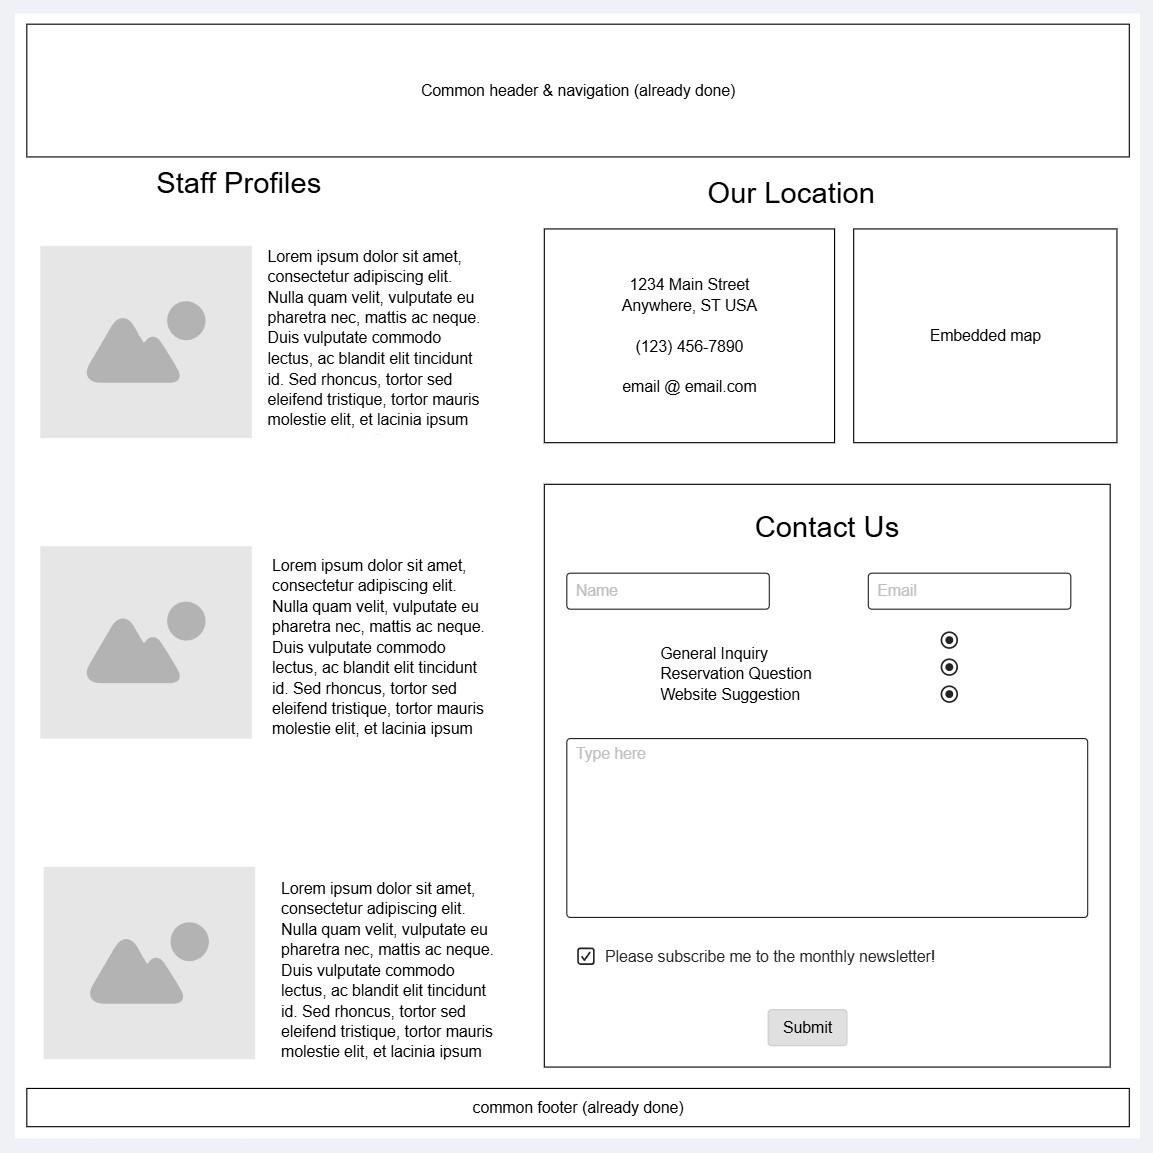
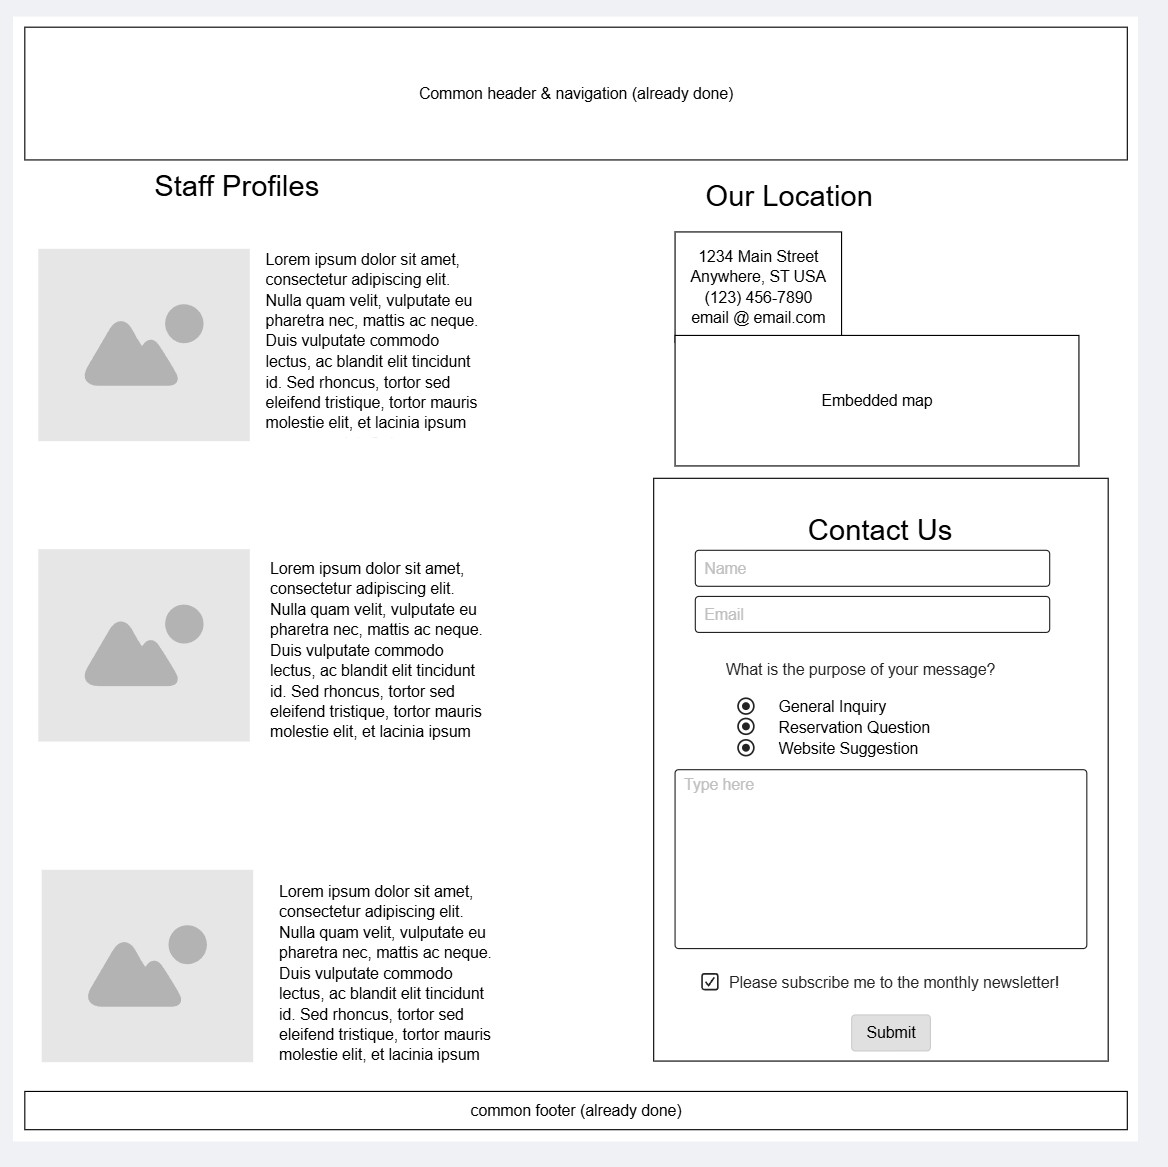
week 5 contact us page updates

diff --git a/wwr/contact.html b/wwr/contact.html
@@ -27,55 +27,67 @@
             </ul>
         </nav>
     </header>
-    <main >
-        <div  class="aboutpage">
+    <main class="aboutpage">
+        <!-- <div  class="aboutpage"> -->
         <section class="staffbios">
             <h2>Our Staff</h2>
             <figure><img src="images/employee1.jpg" alt="Julia Smith">
-                <figcaption>Kandi Smith is our very capable office manager. She lives in Idaho Falls with her family and loves to snowboard in the winter and hike in the summer.</figcaption>
+                <figcaption>Kandi Smith is our very capable office manager. She lives in Idaho Falls with her family and
+                    loves to snowboard in the winter and hike in the summer.</figcaption>
             </figure>
             <figure><img src="images/employee2.jpg" alt="Julia Smith">
-                <figcaption>John Clark is our head of reservations. He loves to play board games and write novels in his spare time. He lives in Blackfoot with his wife. </figcaption>
+                <figcaption>John Clark is our head of reservations. He loves to play board games and write novels in his
+                    spare time. He lives in Blackfoot with his wife. </figcaption>
             </figure>
             <figure><img src="images/employee3.jpg" alt="Julia Smith">
-                <figcaption>Harriet Johnson is our head tour guide. When she's not on the river, Harriet loves to knit and bake. She lives in Ammon with her dog Milo.</figcaption>
+                <figcaption>Harriet Johnson is our head tour guide. When she's not on the river, Harriet loves to knit
+                    and bake. She lives in Ammon with her dog Milo.</figcaption>
             </figure>
+
         </section>
         <section class="location">
             <h2>Our Location</h2>
-            <address>1234 Main Street<br>Idaho Falls, 83401 ID <br>(208)123-4567<br>email@email.com</address>
-            <iframe src="https://www.google.com/maps/embed?pb=!1m18!1m12!1m3!1d92618.68897390427!2d-112.11872343858929!3d43.495366841365296!2m3!1f0!2f0!3f0!3m2!1i1024!2i768!4f13.1!3m3!1m2!1s0x5354594e739512b5%3A0x2311c9fc094c49c9!2sIdaho%20Falls%2C%20ID!5e0!3m2!1sen!2sus!4v1749058357774!5m2!1sen!2sus" width="400" height="400"  allowfullscreen="" loading="lazy" referrerpolicy="no-referrer-when-downgrade">
+            <address>1234 Main Street<br>Idaho Falls, ID 83401<br>(208)123-4567<br>email@email.com</address>
+            <iframe
+                src="https://www.google.com/maps/embed?pb=!1m18!1m12!1m3!1d92618.68897390427!2d-112.11872343858929!3d43.495366841365296!2m3!1f0!2f0!3f0!3m2!1i1024!2i768!4f13.1!3m3!1m2!1s0x5354594e739512b5%3A0x2311c9fc094c49c9!2sIdaho%20Falls%2C%20ID!5e0!3m2!1sen!2sus!4v1749058357774!5m2!1sen!2sus"
+                width="400" height="400" allowfullscreen="" loading="lazy" referrerpolicy="no-referrer-when-downgrade">
             </iframe>
         </section>
         <section class="contactform">
             <form>
                 <fieldset>
-                    <legend>Contact Us</legend>
+                    <legend class="contactus">Contact Us</legend>
+                    <!-- <div class="contactus"> -->
                     <label for="fullname">Full Name</label>
                     <input type="text" id="fullname" name="fullname"><br>
-                    <label for="email">Email Address</label>
+                    <!-- </div> -->
+                    <label for="useremail">Email Address</label>
                     <input type="email" id="useremail" name="useremail"><br>
                 </fieldset>
                 <fieldset>
-                    <legend>What is the purpose of your message?</legend>
-                    <label for="generalinquiry">General Inquiry</label>
-                    <input type="radio" id="generalinquiry" name="generalinquiry"><br>
-                    <label for="reservationquestion">Reservation Question</label>
-                    <input type="radio" id="reservationquestion" name="reservationquestion"><br>
-                    <label for="website suggestion">Website Suggestion</label>
-                    <input type="radio" id="websitesuggestion" name="websitesuggestion"><br>
-                    <textarea name="message" id="message" rows="4"
-                    placeholder="Please type your message here"></textarea><br>
-                    <label for="newsletter">Please subscribe me to the monthly newsletter!</label>
-                    <input type="checkbox" id="newsletter" name="newsletter"><br>
+                    <legend class="msgpurpose">What is the purpose of your message?</legend>
+                    <div class="radio">
+                        <input type="radio" id="purpose" name="purpose">
+                        <label>General Inquiry</label><br>
+                        <input type="radio" id="resquestion" name="purpose">
+                        <label for="resquestion">Reservation Question</label><br>
+                        <input type="radio" id="sitesuggestion" name="purpose">
+                        <label for="sitesuggestion">Website Suggestion</label><br>
+                    </div>
+                    <textarea name="message" id="message" rows="15"
+                        placeholder="Please type your message here"></textarea><br>
+                    <div>
+                        <input type="checkbox" id="newsletter" name="newsletter">
+                        <label for="newsletter">Please subscribe me to the monthly newsletter!</label>
+                    </div>
                     <button type="submit">Send Your Message</button>
-                </fieldset>                
+                </fieldset>
             </form>
         </section>
-        </div>
+        <!-- </div> -->
     </main>
     <footer>
-        <p>© 2025 | Down the River Whitewater Adventures | Jennifer Malan </p>
+        <p>© 2025 | Down the River Whitewater Adventures | Jennifer Malan | <a href="wireframe.html">Wireframe</a></p>
         <nav class="socialmedia">
             <a href="https://facebook.com">
                 <img src="images/facebook.webp" alt="Facebook">

diff --git a/wwr/styles/rafting.css b/wwr/styles/rafting.css
@@ -38,7 +38,7 @@ header {
 .navigation a {
     display: block;
     text-align: center;
-    color: var(--link-color);
+    color: var(--accent2-color);
     padding: 10px;
     text-decoration: none;
     font-size: 1.2rem;
@@ -140,7 +140,7 @@ h1 {
 
 }
 
-.hero article p a{
+.hero article p a {
     text-decoration: none;
     font-weight: bolder;
     color: var(--link-color);
@@ -176,23 +176,20 @@ h1 {
 }
 
 .history p a {
-    text-decoration:none;
-    font-weight:bolder;
-    color: var(--link-color)
-    
-    
-    
+    text-decoration: none;
+    font-weight: bolder;
+    color: var(--link-color);
 }
 
 .history p a:hover {
-    color: orangered
+    color: orangered;
 }
 
 
-.gallery {
-    display: grid;
-    grid-template-columns: 1fr 1fr 1fr 1fr;
-
+.gallery  {
+    display:grid;
+    align-content: center;
+   
 }
 
 .gallery h2 {
@@ -233,52 +230,126 @@ footer {
 
 .aboutpage {
     display: grid;
-    grid-template-columns:1fr 1fr;
-    grid-template-rows: 1fr 1fr 1fr;
+    grid-template-columns: 1fr 1fr;
     justify-content: center;
 
 }
 
-.aboutpage h2{
+.aboutpage h2 {
     justify-content: center;
 }
 
-.staffbios{
-   align-self: top;
-   justify-self: center;
-    grid-row: 1/4;
-    background-color: var(--accent1-color);
+.staffbios {
+    grid-row: 1/3;
+    display: flex;
+    flex-direction: column;
+    background-color: var(--secondary-color);
+    border: 2px solid var(--link-color);
+    border-radius: 10px;
 }
 
-.staffbios img, figcaption {
+.staffbios img
+ {
+    align-items: baseline;
     width: 300px;
-    padding: 5px;
-    
+    margin: 10px;
+
 }
 
-.location 
-{   grid-column: 2/3;
-    grid-row:1/2;
-    background-color: var(--primary-color);
+
+
+.staffbios img {
+     box-shadow: 3px 3px 3px black;
+
+}
+
+.location {
+    grid-column: 2/3;
+    grid-row: 1/2;
+    background-color: var(--secondary-color);
+    border: 2px solid var(--link-color);
+    border-radius: 10px;
+    justify-self: center;
+    ;
+
 }
 
 .location address {
     padding: 10px;
+    font-style: normal
 }
 
 .location iframe {
     margin: 10px;
+    border: 2px solid var(--link-color);
+    border-radius: 10px;
+     box-shadow: 3px 3px 3px black;
+
 }
 
-.contactform{
+form {
     grid-column: 2/3;
-    grid-row: 2/4;
+    grid-row: 2/3;
+    display: grid;
+    border: 2px solid var(--link-color);
+    border-radius: 10px;
     background-color: var(--secondary-color);
+    padding: 10px 10px 15px 10px;
+    justify-self: center;
 }
 
 legend {
     font-family: var(--heading-font);
-    font-size:larger;
-    font-weight:900 ;
+    color: var(--accent2-color);
+    font-size: 1.2rem;
+    font-weight: 700;
+    padding: 5px;
+
+}
+
+.contactus {
+    font-size: 1.6rem;
+    text-align: center;
+
+}
+
+input {
+    border-radius: 10px;
+}
+
+fieldset {
+    border: none;
+    display: grid;
     padding: 10px;
+
+}
+
+textarea {
+    font-family: var(--text-font);
+    font-size: 1rem;
+    border-radius: 10px;
+    padding: 5px;
+}
+
+.radio {
+    padding-bottom: 15px
+}
+
+
+button {
+    padding: 10px;
+    margin-top: 15px;
+    font-family: var(--heading-font);
+    font-weight: 800;
+    font-size: 1.2rem;
+    color: white;
+    background-color: var(--accent2-color);
+    border: none;
+    border-radius: 10px;
+    width: 250px;
+    justify-self: center;
+}
+
+button:hover {
+    background-color: var(--link-color);
 }

diff --git a/wwr/about.html b/wwr/about.html
@@ -45,7 +45,7 @@
         </section>
         <section class="gallery">
             <h2>Adventure Awaits You</h2>
-
+            
             <figure><img src="images/rafting2.jpg" alt="rafters in a raft"><figcaption>Devil's Gate</figcaption></figure>
             <figure><img src="images/rafting3.jpg" alt="empty rafts"><figcaption>Los Dientes del Diablo</figcaption></figure>
             <figure><img src="images/rafting4.jpg" alt="rafters in a raft"><figcaption>Half-Day Adventure</figcaption></figure>

diff --git a/wwr/wireframe.html b/wwr/wireframe.html
@@ -1,0 +1,11 @@
+<!DOCTYPE html>
+<html lang="en">
+<head>
+    <meta charset="UTF-8">
+    <meta name="viewport" content="width=device-width, initial-scale=1.0">
+    <title>Wireframe for Contact Page</title>
+</head>
+<body>
+    <img src="images/wireframe.jpg" alt="wireframe plan"
+</body>
+</html>
